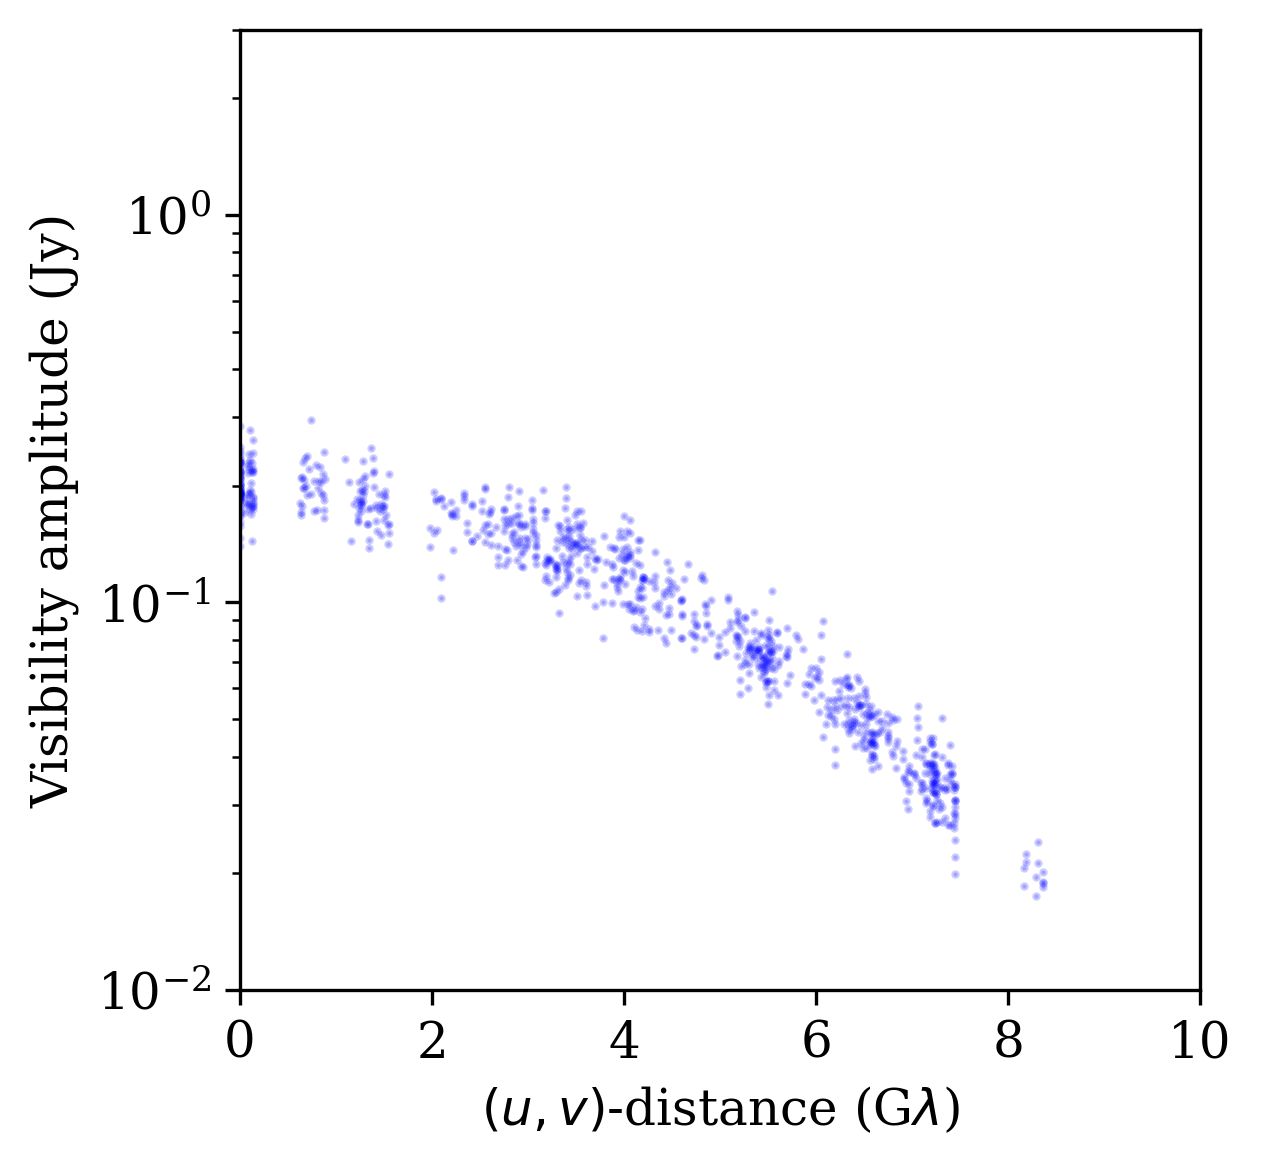
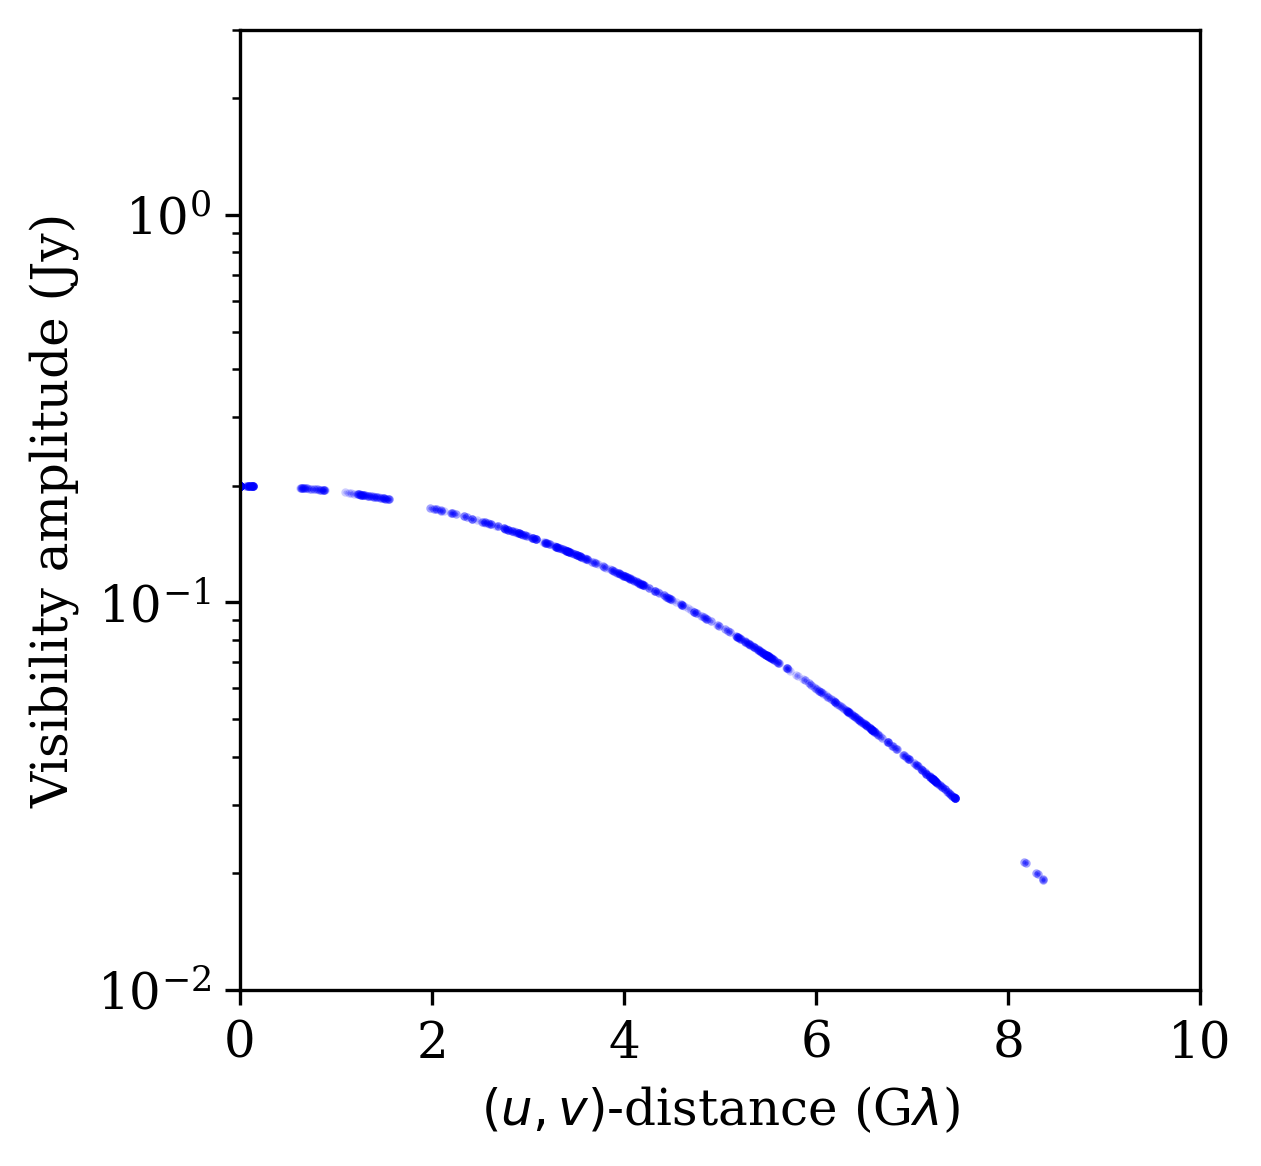
update ngEHTforecast example to use typical weather

Changed region(s): [[0.3402, 0.4014, 0.7732, 0.741], [0.1856, 0.3705, 0.3093, 0.494], [0.8041, 0.7101, 0.8351, 0.7719]]

diff --git a/examples/example_data_generation_using_ngEHTforecast/generate_observation.py b/examples/example_data_generation_using_ngEHTforecast/generate_observation.py
@@ -15,11 +15,12 @@ ff = fp.FF_symmetric_gaussian()
 # generate an observation
 
 # initialize the observation generator
-obsgen = og.obs_generator()
+settings = {'weather': 'typical'}
+obsgen = og.obs_generator(settings)
 
 # generate the observation by passing the FisherForecast object and parameters
 p = [0.2,20.0]
-obs = obsgen.make_obs(ff,p=p)
+obs = obsgen.make_obs(ff,p=p,addnoise=False,addgains=False)
 
 # save it as a uvfits file
 obs.save_uvfits('./example_datafile.uvfits')
